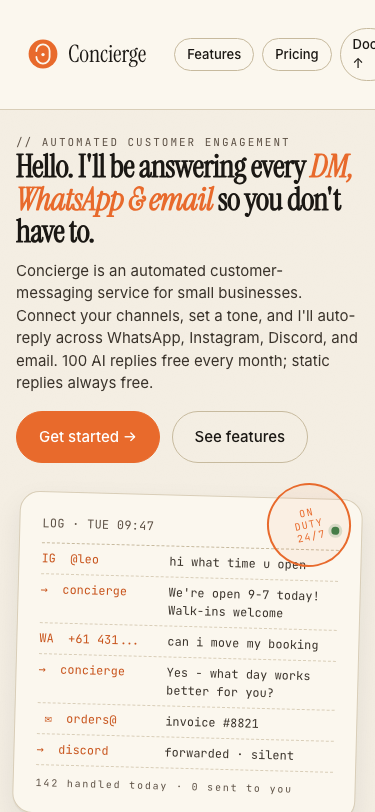
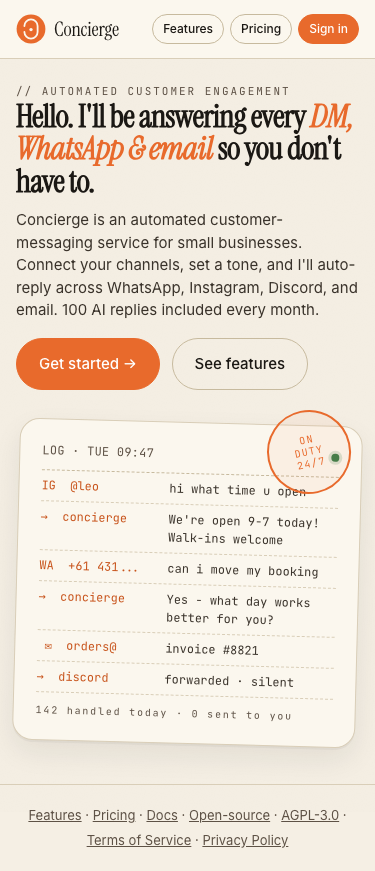
ui: fix public nav overflow on small + mid-width viewports
Two bands rendered the public top bar broken: ≤340px (brand + 3 buttons
wrapped to a second row) and 601–760px (just above the mobile
breakpoint, the desktop 5-button row crammed and each button's text
wrapped). Hide Docs / Open-source up to 760px (they're already in the
footer), and tighten header/nav metrics under 360px.

Screenshot pipeline now captures mobile + desktop for every public
page and runs an in-page layout check (overflow, culprit hunt, tall-
header) at 320–768px on each path; non-zero exit on a fail so re-running
serves as a smoke test. Docs gallery split into Desktop and Mobile
sections.

Changed region(s): [[0.0293, 0.0, 1.0, 0.9852], [0.9387, 0.8929, 0.968, 0.9236], [0.0293, 0.8929, 0.0587, 0.9236]]

diff --git a/doc/index.html b/doc/index.html
@@ -264,12 +264,13 @@
 
       <h2 id="gallery">A look at the app</h2>
       <p>
-        Live captures of the public site, regenerated from the running Worker by <code>npm run screenshots</code>.
+        Live captures of the public site, regenerated from the running Worker by <code>npm run screenshots</code>. Each page is captured at desktop (1280&times;800) and mobile (375&times;812) widths so layout regressions show up against a baseline. The same script also runs a layout sanity check (page&nbsp;overflow + nav clipping) and exits non&#8209;zero on a fail, so re&#8209;running it serves as a smoke test for the marketing surface.
       </p>
+      <h3 class="gallery__heading">Desktop</h3>
       <div class="gallery">
         <a href="screenshots/home.png" class="gallery__tile">
           <img src="screenshots/home.png" alt="Concierge welcome page at desktop width" loading="lazy">
-          <div class="gallery__cap"><b>Welcome</b><span>/  &middot; 1280&times;800</span></div>
+          <div class="gallery__cap"><b>Welcome</b><span>/ &middot; 1280&times;800</span></div>
         </a>
         <a href="screenshots/login.png" class="gallery__tile">
           <img src="screenshots/login.png" alt="Sign-in page with Google, Facebook, and WhatsApp brand buttons" loading="lazy">
@@ -283,13 +284,32 @@
           <img src="screenshots/pricing.png" alt="Pricing marketing page" loading="lazy">
           <div class="gallery__cap"><b>Pricing</b><span>/pricing</span></div>
         </a>
+        <a href="screenshots/terms.png" class="gallery__tile">
+          <img src="screenshots/terms.png" alt="Terms of service page" loading="lazy">
+          <div class="gallery__cap"><b>Legal</b><span>/terms &middot; /privacy</span></div>
+        </a>
+      </div>
+      <h3 class="gallery__heading">Mobile</h3>
+      <div class="gallery gallery--mobile">
         <a href="screenshots/home-mobile.png" class="gallery__tile gallery__tile--mobile">
           <img src="screenshots/home-mobile.png" alt="Welcome page at mobile width" loading="lazy">
           <div class="gallery__cap"><b>Welcome</b><span>/ &middot; 375&times;812</span></div>
         </a>
-        <a href="screenshots/terms.png" class="gallery__tile">
-          <img src="screenshots/terms.png" alt="Terms of service page" loading="lazy">
-          <div class="gallery__cap"><b>Legal</b><span>/terms · /privacy</span></div>
+        <a href="screenshots/login-mobile.png" class="gallery__tile gallery__tile--mobile">
+          <img src="screenshots/login-mobile.png" alt="Sign-in page at mobile width" loading="lazy">
+          <div class="gallery__cap"><b>Sign in</b><span>/auth/login</span></div>
+        </a>
+        <a href="screenshots/features-mobile.png" class="gallery__tile gallery__tile--mobile">
+          <img src="screenshots/features-mobile.png" alt="Features page at mobile width" loading="lazy">
+          <div class="gallery__cap"><b>Features</b><span>/features</span></div>
+        </a>
+        <a href="screenshots/pricing-mobile.png" class="gallery__tile gallery__tile--mobile">
+          <img src="screenshots/pricing-mobile.png" alt="Pricing page at mobile width" loading="lazy">
+          <div class="gallery__cap"><b>Pricing</b><span>/pricing</span></div>
+        </a>
+        <a href="screenshots/terms-mobile.png" class="gallery__tile gallery__tile--mobile">
+          <img src="screenshots/terms-mobile.png" alt="Terms page at mobile width" loading="lazy">
+          <div class="gallery__cap"><b>Legal</b><span>/terms &middot; /privacy</span></div>
         </a>
       </div>
 

diff --git a/doc/docs.css b/doc/docs.css
@@ -794,6 +794,18 @@ table.docs td.muted { color: var(--text-muted); }
   margin: 14px 0 28px;
 }
 @media (max-width: 720px) { .gallery { grid-template-columns: 1fr; } }
+/* Mobile captures are tall + narrow; pack four across so they read as a
+   filmstrip rather than each filling a full content column. */
+.gallery--mobile { grid-template-columns: repeat(4, 1fr); }
+@media (max-width: 720px) { .gallery--mobile { grid-template-columns: repeat(2, 1fr); } }
+.gallery__heading {
+  font-size: 13px;
+  font-weight: 600;
+  letter-spacing: 0.08em;
+  text-transform: uppercase;
+  color: var(--text-faint);
+  margin: 22px 0 6px;
+}
 .gallery__tile {
   display: block;
   border: 1px solid var(--border);

diff --git a/src/templates/base.rs b/src/templates/base.rs
@@ -353,8 +353,23 @@ code {
 /* HTMX loading state */
 .htmx-request .btn { opacity: 0.6; pointer-events: none; }
 
+/* The two external nav buttons (Docs ↑ / Open source ↑) get hidden well
+   before the 600px mobile breakpoint: with all five buttons on one row,
+   the header crams to two lines anywhere in the 600–720px band, which
+   reads as a broken header. They're duplicated in the footer, so the
+   information isn't lost. */
+@media(max-width:760px){
+  .site-header .nav-ext { display:none; }
+}
+
 /* Mobile */
 @media(max-width:600px){
+  .site-header { padding:14px 16px; gap:12px; flex-wrap:wrap; }
+  .site-header .brand { gap:8px; font-size:18px; }
+  .site-header .brand .serif { font-size:20px; }
+  .site-header .site-nav { gap:6px; flex-wrap:wrap; justify-content:flex-end; }
+  .site-header .site-nav .btn.sm { padding:5px 10px; font-size:12px; }
+  .site-footer { padding:18px 16px; line-height:1.9; }
   .page { padding:24px 16px 40px; }
   .display { font-size:clamp(32px,8vw,44px); margin:0 0 12px; }
   .display br { display:none; }
@@ -385,6 +400,14 @@ code {
 @media(max-width:480px){
   .rail-labels span:not(.active):not(.done) { display:none; }
 }
+/* iPhone SE / 320–360px sliver: the brand + 3 buttons still don't fit
+   one row at default sizing, so squeeze the whole top bar harder. */
+@media(max-width:360px){
+  .site-header { gap:8px; padding:12px 12px; }
+  .site-header .brand .serif { font-size:18px; }
+  .site-header .site-nav { gap:4px; }
+  .site-header .site-nav .btn.sm { padding:4px 8px; font-size:11px; }
+}
 
 /* Scrollbars */
 ::-webkit-scrollbar { width:10px; height:10px; }
@@ -406,6 +429,10 @@ pub fn brand_mark() -> String {
 /// Shared header for public marketing pages (home, /features, /pricing,
 /// /docs). `active` is the slug of the current page so the matching nav
 /// item lights up: pass "" to highlight nothing.
+///
+/// External-pointer links (Docs, Open source) get the `nav-ext` class so
+/// the mobile stylesheet can drop them — they're duplicated in the footer
+/// and shedding them is what lets the row fit a 375px viewport.
 pub fn public_nav_html(active: &str, locale: &Locale) -> String {
     let item = |slug: &str, label: &str, href: &str| -> String {
         let cls = if slug == active {
@@ -419,18 +446,18 @@ pub fn public_nav_html(active: &str, locale: &Locale) -> String {
     let pricing = item("pricing", &t(locale, "nav-pricing"), "/pricing");
     let docs_label = t(locale, "nav-docs");
     let docs = format!(
-        r#"<a href="https://ananthb.github.io/concierge/" class="btn ghost sm" target="_blank" rel="noopener">{docs_label}</a>"#,
+        r#"<a href="https://ananthb.github.io/concierge/" class="btn ghost sm nav-ext" target="_blank" rel="noopener">{docs_label}</a>"#,
     );
     let github_label = t(locale, "nav-open-source");
     let github = format!(
-        r#"<a href="https://github.com/ananthb/concierge" class="btn ghost sm" target="_blank" rel="noopener">{github_label}</a>"#,
+        r#"<a href="https://github.com/ananthb/concierge" class="btn ghost sm nav-ext" target="_blank" rel="noopener">{github_label}</a>"#,
     );
     let signin_label = t(locale, "nav-sign-in");
     let signin = format!(r#"<a href="/auth/login" class="btn primary sm">{signin_label}</a>"#,);
     format!(
         r#"<header class="site-header">
   {brand}
-  <nav class="row gap-8 ml-auto">
+  <nav class="site-nav row gap-8 ml-auto" aria-label="Primary">
     {features}{pricing}{docs}{github}{signin}
   </nav>
 </header>"#,
